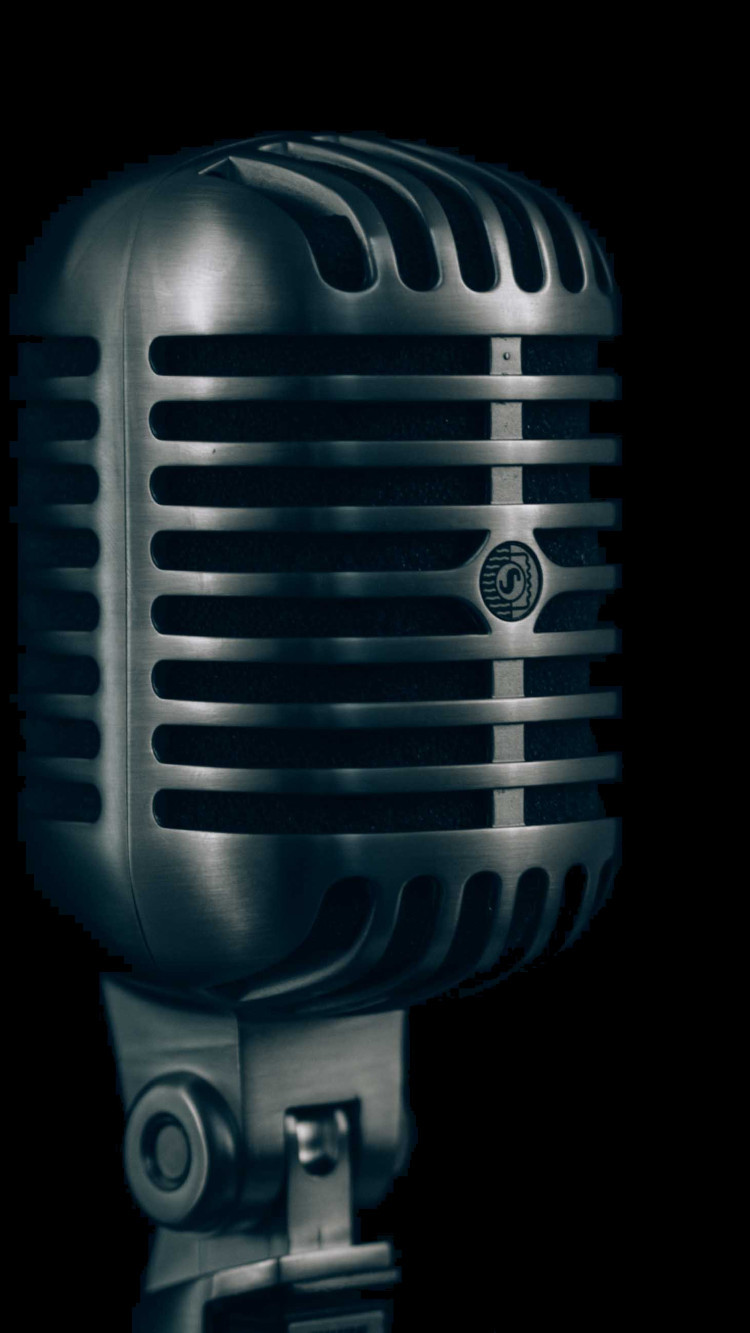
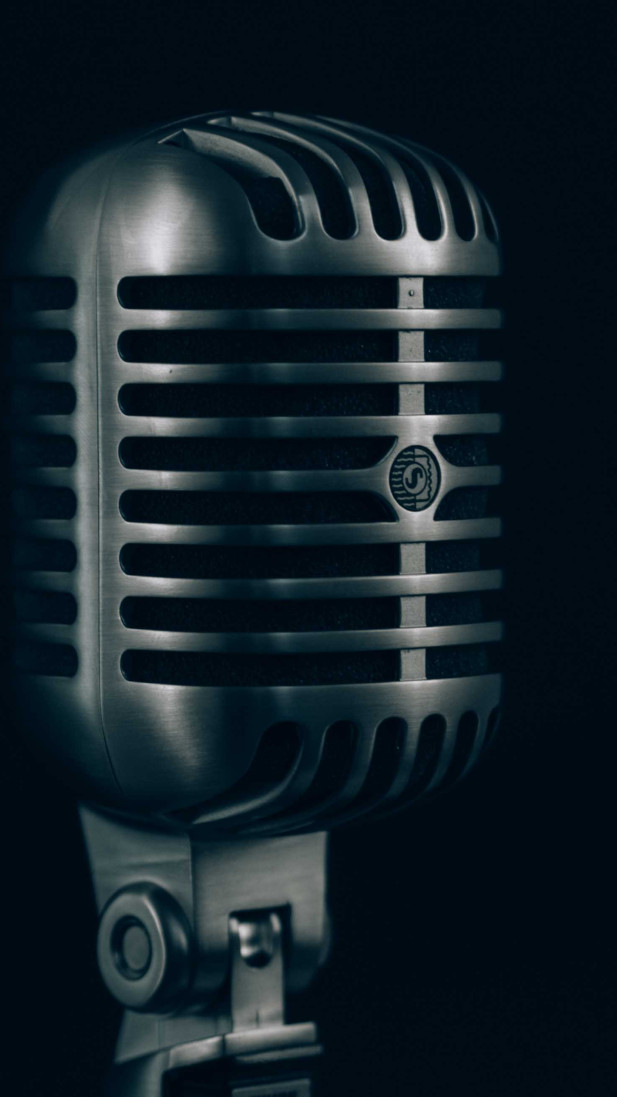
v1.1

diff --git a/style.css b/style.css
@@ -1,4 +1,4 @@
-body { background-color: #000000; }
+body { background-color: #030d16; margin: 0; }
 
 .flex-row {
   align-content: flex-start;
@@ -11,8 +11,13 @@ body { background-color: #000000; }
 .flex-grow-1 { flex-grow: 1 }
 .flex-shrink-1 { flex-shrink: 1 }
 
-.spanner-cell { background-image: url('background.jpg'); flex-basis: 750px; min-height: 1333px; }
-.toggle-cell { flex-basis: 300px; }
+.spanner-cell {
+  background-image: url('background.jpg');
+  background-repeat: no-repeat;
+  flex-basis: 687px;
+  min-height: 1097px;
+}
+.toggle-cell { flex-basis: 275px; }
 
 .ui-button .ui-icon { margin-top: 1px; }
 
@@ -27,9 +32,9 @@ body { background-color: #000000; }
 .player-panel {
   background-color: #222222;
   padding: 0.5em;
-  margin: 150px 0 0 50px;
+  margin: 150px 0 0;
   opacity: 0.95;
-  width: 400px;
+  width: 370px;
 }
 .player-title { margin: 0; padding: 0.25em; text-align: center; }
 .player-form { display: none; }
@@ -46,7 +51,7 @@ body { background-color: #000000; }
 
 .player-up-box, .player-down-box { flex-basis: 28px; }
 .player-up-box { text-align: right; }
-.player-vol-box { min-width: 180px; }
+.player-vol-box { min-width: 160px; }
 .player-list { margin: 0; padding: 0; }
 
 .track-item { list-style-type: none; }
@@ -54,8 +59,10 @@ body { background-color: #000000; }
 .track-play .ui-icon { margin-right: 0.5em; visibility: hidden; }
 .track-play:hover .ui-icon, .track-play--playing .ui-icon { visibility: visible; }
 .track-play--playing { border-color: rgb(11, 147, 213); }
-.track-time { color: #ffffff; font-size: 12pt; }
-.track-label { min-width: 200px; }
+.track-time { color: #ffffff; }
+.track-label { font-weight: bold; min-width: 180px; }
+.track-time,
+.track-label { font-size: 10pt; line-height: 1.7; }
 .track-clock { text-align: right; }
 .track-separator { padding: 0 0.5em; }
 .track-total { margin-right: 0.25em; }

diff --git a/player.js b/player.js
@@ -218,7 +218,6 @@ class Player {
     this.$element.addClass('player-panel ui-widget ui-corner-all').appendTo(root);
     this.$title.addClass('player-title ui-widget ui-widget-header ui-corner-all')
       .text('Portfolio of audio samples').appendTo(this.$element);
-    $('<div style="color: white">').text(`Width: ${window.innerWidth}px`).appendTo(this.$element);
     this.$audio.appendTo(this.$element);
     this._controls.build({ panel: this.$element, playAll: this.playAll, setVolume: this.setVolume });
     this.$list.addClass('player-list').appendTo(this.$element);
